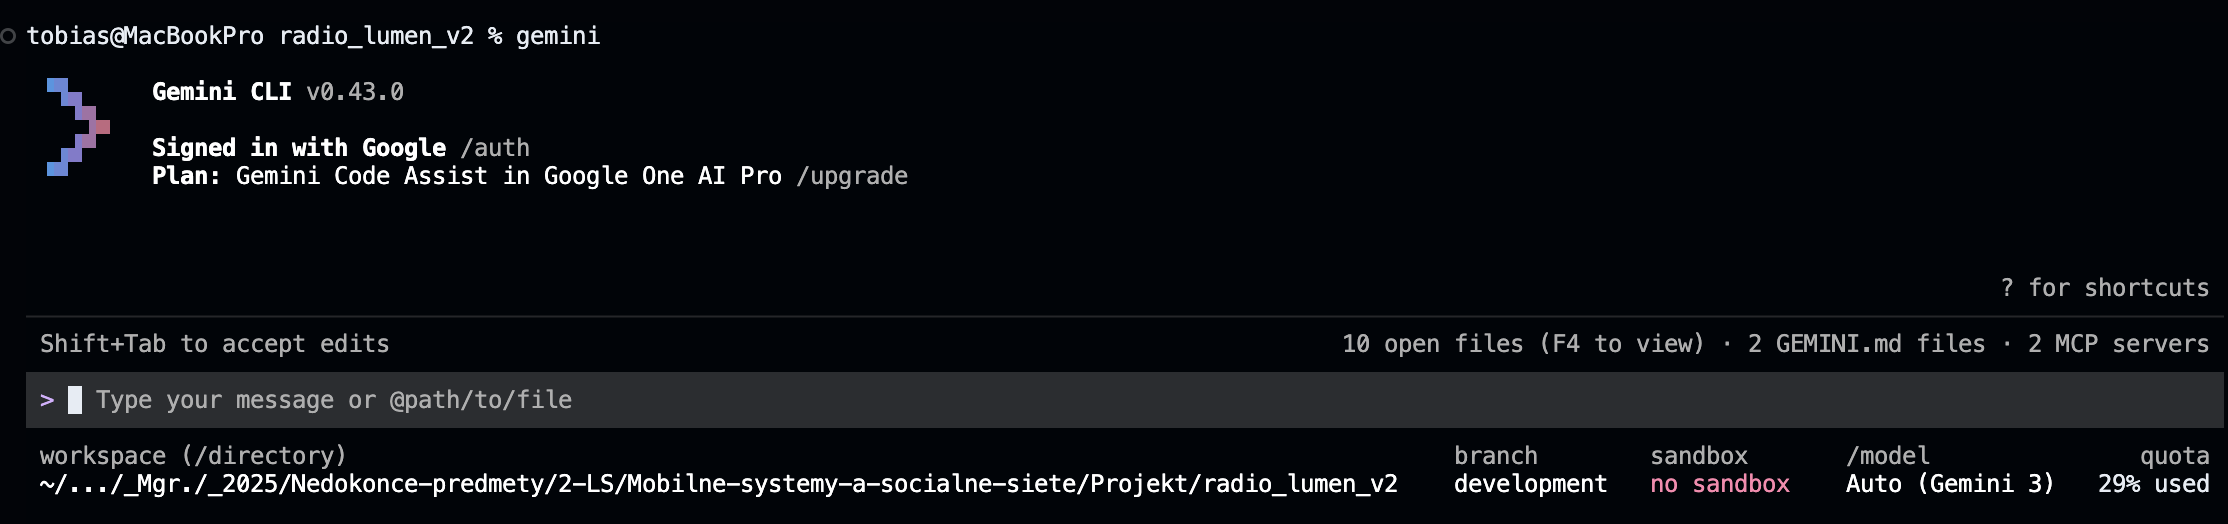
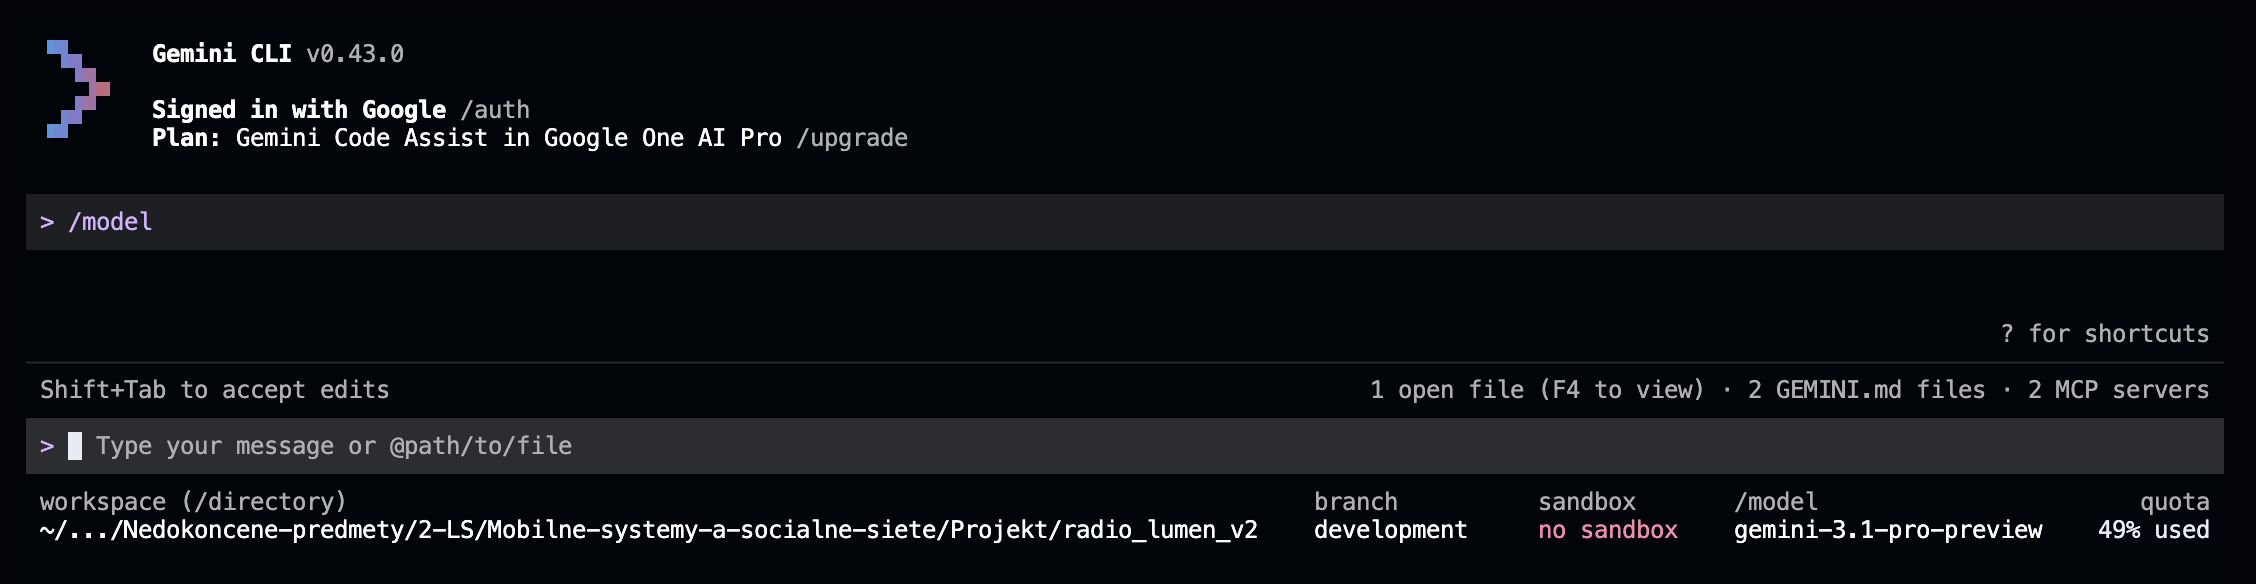
feat, docs: refine DioClient error handling and tests, update docs screenshots

Changed region(s): [[0.0, 0.6107, 1.0, 0.9466], [0.0, 0.0305, 0.991, 0.4275], [0.8981, 0.5191, 0.991, 0.6107]]

diff --git a/lib/core/network/dio_client.dart b/lib/core/network/dio_client.dart
@@ -53,76 +53,88 @@ class DioClient {
       final Map<String, dynamic> data = jsonDecode(response.data ?? '{}');
 
       for (int i = 1; i <= 6; i++) {
-        final tabHeaderHtml = data['tab$i']?.toString() ?? '';
-        final tabContentHtml = data['tab${i}t']?.toString() ?? '';
+        try {
+          final tabHeaderHtml = data['tab$i']?.toString() ?? '';
+          final tabContentHtml = data['tab${i}t']?.toString() ?? '';
 
-        final headerDoc = parse(tabHeaderHtml);
-        final text = headerDoc.body?.text.trim() ?? '';
-        final dateMatch = RegExp(
-          r'(\d{1,2})\.\s*(\d{1,2})\.\s*(\d{4})',
-        ).firstMatch(text);
+          final headerDoc = parse(tabHeaderHtml);
+          final text = headerDoc.body?.text.trim() ?? '';
+          final dateMatch = RegExp(
+            r'(\d{1,2})\.\s*(\d{1,2})\.\s*(\d{4})',
+          ).firstMatch(text);
 
-        if (dateMatch == null) continue;
+          if (dateMatch == null) continue;
 
-        final date = DateTime(
-          int.parse(dateMatch.group(3)!),
-          int.parse(dateMatch.group(2)!),
-          int.parse(dateMatch.group(1)!),
-        );
+          final date = DateTime(
+            int.parse(dateMatch.group(3)!),
+            int.parse(dateMatch.group(2)!),
+            int.parse(dateMatch.group(1)!),
+          );
 
-        final contentDoc = parse(tabContentHtml);
-        final programItems = contentDoc.querySelectorAll('ul.program > li');
+          final contentDoc = parse(tabContentHtml);
+          final programItems = contentDoc.querySelectorAll('ul.program > li');
 
-        for (int j = 0; j < programItems.length; j++) {
-          try {
-            final li = programItems[j];
-            final timeText = li.querySelector('.time')?.text.trim() ?? '';
-            final title =
-                li.querySelector('h3 a')?.text.trim() ??
-                li.querySelector('h3')?.text.trim() ??
-                '';
+          for (int j = 0; j < programItems.length; j++) {
+            try {
+              final li = programItems[j];
+              final timeText = li.querySelector('.time')?.text.trim() ?? '';
+              final title =
+                  li.querySelector('h3 a')?.text.trim() ??
+                  li.querySelector('h3')?.text.trim() ??
+                  '';
 
-            final pTags = li.querySelectorAll('p');
-            String description = '';
-            for (final p in pTags) {
-              final text = p.text.trim();
-              if (text.isNotEmpty) {
-                if (description.isNotEmpty) description += '\n';
-                description += text;
+              final pTags = li.querySelectorAll('p');
+              String description = '';
+              for (final p in pTags) {
+                final text = p.text.trim();
+                if (text.isNotEmpty) {
+                  if (description.isNotEmpty) description += '\n';
+                  description += text;
+                }
               }
+
+              int hour = 0;
+              int minute = 0;
+              final timeParts = timeText.split(':');
+              if (timeParts.length == 2) {
+                hour = int.tryParse(timeParts[0]) ?? 0;
+                minute = int.tryParse(timeParts[1]) ?? 0;
+              }
+
+              final startTime = DateTime(
+                date.year,
+                date.month,
+                date.day,
+                hour,
+                minute,
+              );
+
+              final playBtn = li.querySelector('a.jp-play');
+              final playUrlStr = playBtn?.attributes['rel'];
+
+              items.add({
+                'id': 'b${batchIndex}_tab${i}_$j',
+                'title': title,
+                'description': description,
+                'start_time': startTime.toIso8601String(),
+                'tags': <String>[],
+                if (playUrlStr != null)
+                  'play_url': 'https://audiox.lumen.sk/archiv/$playUrlStr',
+              });
+            } catch (itemError) {
+              developer.log(
+                'Failed to parse a schedule item, skipping.',
+                name: 'dio_client',
+                error: itemError,
+              );
             }
-
-            int hour = 0;
-            int minute = 0;
-            final timeParts = timeText.split(':');
-            if (timeParts.length == 2) {
-              hour = int.tryParse(timeParts[0]) ?? 0;
-              minute = int.tryParse(timeParts[1]) ?? 0;
-            }
-
-            final startTime = DateTime(
-              date.year,
-              date.month,
-              date.day,
-              hour,
-              minute,
-            );
-
-            final playBtn = li.querySelector('a.jp-play');
-            final playUrlStr = playBtn?.attributes['rel'];
-
-            items.add({
-              'id': 'b${batchIndex}_tab${i}_$j',
-              'title': title,
-              'description': description,
-              'start_time': startTime.toIso8601String(),
-              'tags': <String>[],
-              if (playUrlStr != null)
-                'play_url': 'https://audiox.lumen.sk/archiv/$playUrlStr',
-            });
-          } catch (itemError) {
-            developer.log('Failed to parse a schedule item, skipping.', name: 'dio_client', error: itemError);
           }
+        } catch (tabError) {
+          developer.log(
+            'Failed to parse tab $i, skipping.',
+            name: 'dio_client',
+            error: tabError,
+          );
         }
       }
     }
@@ -156,9 +168,17 @@ class DioClient {
       }
 
       return {'data': items};
+    } on DioException {
+      rethrow;
     } catch (e) {
-      developer.log('Critical failure parsing schedule DOM', name: 'dio_client', error: e);
-      throw Exception('Failed to load schedule due to an unexpected layout change.');
+      developer.log(
+        'Critical failure parsing schedule DOM',
+        name: 'dio_client',
+        error: e,
+      );
+      throw Exception(
+        'Failed to load schedule due to an unexpected layout change.',
+      );
     }
   }
 

diff --git a/test/core/widgets/lumen_card_test.dart b/test/core/widgets/lumen_card_test.dart
@@ -1,0 +1,71 @@
+import 'package:flutter/material.dart';
+import 'package:flutter_test/flutter_test.dart';
+import 'package:radio_lumen_v2/core/widgets/lumen_card.dart';
+
+void main() {
+  group('LumenCard Widget Tests', () {
+    testWidgets('LumenCard renders child correctly', (WidgetTester tester) async {
+      const childText = 'Test Child';
+      
+      await tester.pumpWidget(
+        const MaterialApp(
+          home: Scaffold(
+            body: LumenCard(
+              child: Text(childText),
+            ),
+          ),
+        ),
+      );
+
+      expect(find.text(childText), findsOneWidget);
+    });
+
+    testWidgets('LumenCard handles onTap', (WidgetTester tester) async {
+      bool tapped = false;
+      
+      await tester.pumpWidget(
+        MaterialApp(
+          home: Scaffold(
+            body: LumenCard(
+              onTap: () => tapped = true,
+              child: const Text('Tap Me'),
+            ),
+          ),
+        ),
+      );
+
+      await tester.tap(find.text('Tap Me'));
+      expect(tapped, isTrue);
+    });
+
+    testWidgets('LumenCard applies padding and margin', (WidgetTester tester) async {
+      const padding = EdgeInsets.all(16.0);
+      const margin = EdgeInsets.all(8.0);
+      
+      await tester.pumpWidget(
+        const MaterialApp(
+          home: Scaffold(
+            body: LumenCard(
+              padding: padding,
+              margin: margin,
+              child: SizedBox(width: 100, height: 100),
+            ),
+          ),
+        ),
+      );
+
+      final containerFinder = find.byType(Container);
+      final container = tester.widget<Container>(containerFinder);
+      
+      expect(container.padding, padding);
+      
+      // Margin is implemented as a Padding widget around the Container
+      final paddingWidgetFinder = find.ancestor(
+        of: containerFinder,
+        matching: find.byType(Padding),
+      );
+      final paddingWidget = tester.widget<Padding>(paddingWidgetFinder);
+      expect(paddingWidget.padding, margin);
+    });
+  });
+}

diff --git a/test/core/network/dio_client_test.dart b/test/core/network/dio_client_test.dart
@@ -1,3 +1,4 @@
+import 'dart:convert';
 import 'package:dio/dio.dart';
 import 'package:flutter_test/flutter_test.dart';
 import 'package:radio_lumen_v2/core/network/dio_client.dart';
@@ -7,13 +8,20 @@ void main() {
     test('fetchScheduleData returns a Map on success', () async {
       // Arrange: create a Dio instance with an interceptor to mock responses
       final mockDio = Dio();
+      
+      // Mock HTML response data structure as expected by DioClient
+      final mockData = {
+        'tab1': '<div>19. 05. 2026</div>',
+        'tab1t': '<ul class="program"><li class="item"><span class="time">08:00</span><h3>Test Show</h3><p>Description</p></li></ul>',
+      };
+      
       mockDio.interceptors.add(
         InterceptorsWrapper(
           onRequest: (options, handler) {
             return handler.resolve(
               Response(
                 requestOptions: options,
-                data: {'status': 'success', 'schedule': []},
+                data: jsonEncode(mockData),
                 statusCode: 200,
               ),
             );
@@ -28,7 +36,10 @@ void main() {
 
       // Assert
       expect(result, isA<Map<String, dynamic>>());
-      expect(result['status'], 'success');
+      expect(result.containsKey('data'), isTrue);
+      expect(result['data'], isA<List>());
+      expect(result['data'].length, greaterThan(0));
+      expect(result['data'][0]['title'], 'Test Show');
     });
 
     test('fetchPlaylistData returns a List on success', () async {
@@ -84,8 +95,8 @@ void main() {
       expect(
         () => dioClient.fetchScheduleData(),
         throwsA(
-          isA<Exception>().having(
-            (e) => e.toString(),
+          isA<DioException>().having(
+            (e) => e.message,
             'message',
             contains('Connection failed'),
           ),

diff --git a/README.md b/README.md
@@ -139,6 +139,9 @@ Významným faktorom pri práci s Gemini CLI bol rozdiel v efektivite a manažme
 **Testovanie funkcionality úloh:** Gemini CLI sa ukázal ako mimoriadne efektívny pomocník pri spracovávaní a validácii funkčných testov pre už hotové úlohy. Dokázal rýchlo overiť správnosť implementácie a odhaliť prípadné logické nedostatky, čo výrazne urýchlilo fázu kontroly kódu. Nehovoriac o tom, že pri erroroch počas testovacích fáz automaticky riešil aj opravu kódu až kým testy nevyšli úspešne.
 
 <p align="center">
+  <img src="docs/screenshots/prompts/Screenshot 2026-05-24 at 11.27.15.png" width="100%" />
+</p>
+<p align="center">
   <img src="docs/screenshots/prompts/Screenshot 2026-05-23 at 22.18.00.png" width="100%" />
 </p>
 <p align="center">